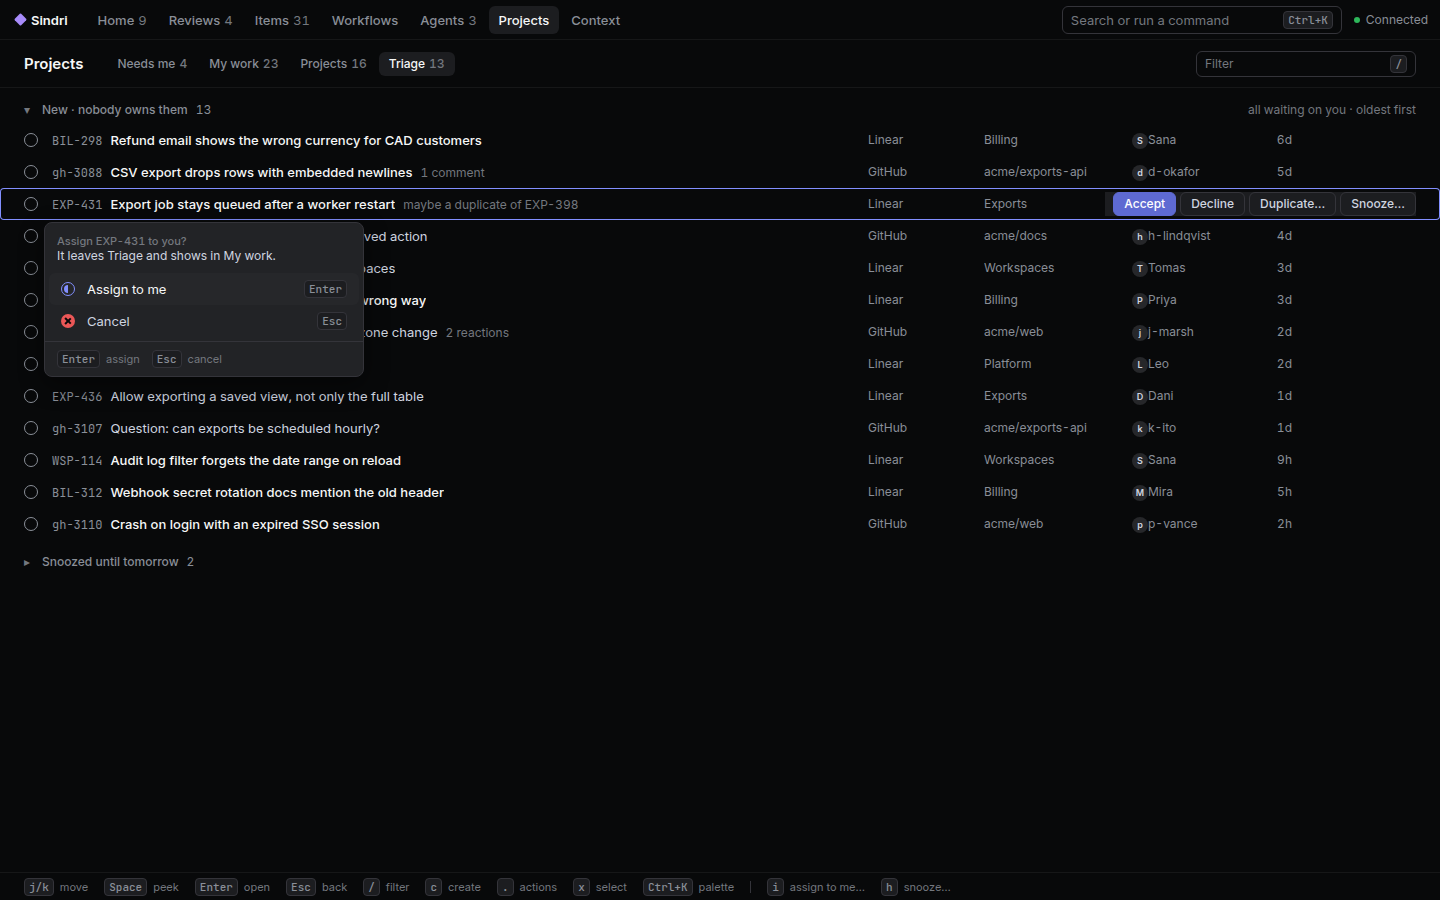
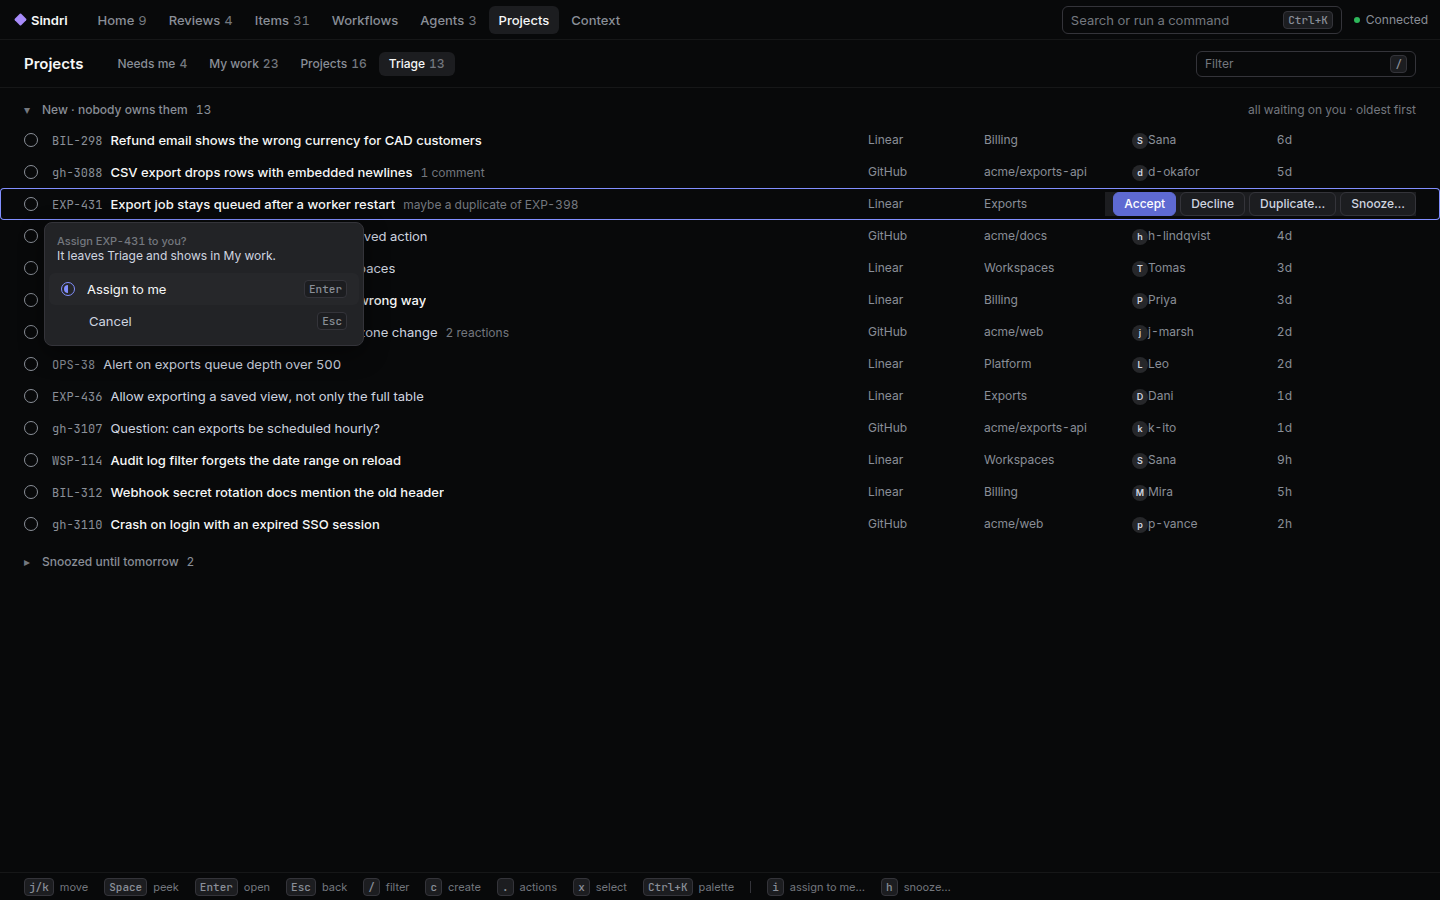
assets: projects-2961 confirm: no Cancel glyph, no key strip

Changed region(s): [[0.0312, 0.3422, 0.25, 0.4356]]

diff --git a/projects-assign-confirm.html b/projects-assign-confirm.html
@@ -29,6 +29,5 @@
 </div><div class="menu" style="left:44px;top:222px;width:320px"><div class="mhead">Assign EXP-431 to you?</div>
 <div class="parse">It leaves Triage and shows in My work.</div>
 <div class="ment on"><span class="g doing"></span><span class="lab">Assign to me</span><kbd>Enter</kbd></div>
-<div class="ment"><span class="g fail"></span><span class="lab">Cancel</span><kbd>Esc</kbd></div>
-<div class="mfoot"><span><kbd>Enter</kbd>assign</span><span><kbd>Esc</kbd>cancel</span></div></div>
+<div class="ment"><span style="width:16px;flex:none"></span><span class="lab">Cancel</span><kbd>Esc</kbd></div></div>
 </body></html>

diff --git a/gen.py b/gen.py
@@ -185,11 +185,10 @@ sheet = ('<div class="sheet">' + panel('Triage, empty','<div>'+e1+'</div>','#296
          + panel('Projects, no projects','<div>'+e2+'</div>','#2961') + '</div>')
 write('projects-states.html', '<!doctype html><html lang="en"><head><meta charset="utf-8"><title>Projects, states</title>\n<link rel="stylesheet" href="'+G+'"><link rel="stylesheet" href="projects.css"></head><body>'+sheet+'</body></html>\n')
 
-# self-assign confirm from Triage (key a): one popup under the cursor row, cancellable, Enter commits
+# self-assign confirm from Triage (key i): one popup under the cursor row, cancellable, Enter commits
 conf = ('<div class="menu" style="left:44px;top:CONFTOPpx;width:320px"><div class="mhead">Assign EXP-431 to you?</div>\n'
         '<div class="parse">It leaves Triage and shows in My work.</div>\n'
         '<div class="ment on"><span class="g doing"></span><span class="lab">Assign to me</span><kbd>Enter</kbd></div>\n'
-        '<div class="ment"><span class="g fail"></span><span class="lab">Cancel</span><kbd>Esc</kbd></div>\n'
-        '<div class="mfoot"><span><kbd>Enter</kbd>assign</span><span><kbd>Esc</kbd>cancel</span></div></div>\n')
+        '<div class="ment"><span style="width:16px;flex:none"></span><span class="lab">Cancel</span><kbd>Esc</kbd></div></div>\n')
 write('projects-assign-confirm.html', head('Projects - assign confirm','Triage') +
   '<div class="body"><div class="list">\n' + tr + '</div></div>\n' + keys([('i','assign to me…'),('h','snooze…')]) + END.replace('</body>', conf.replace('CONFTOPpx', '222px') + '</body>'))
